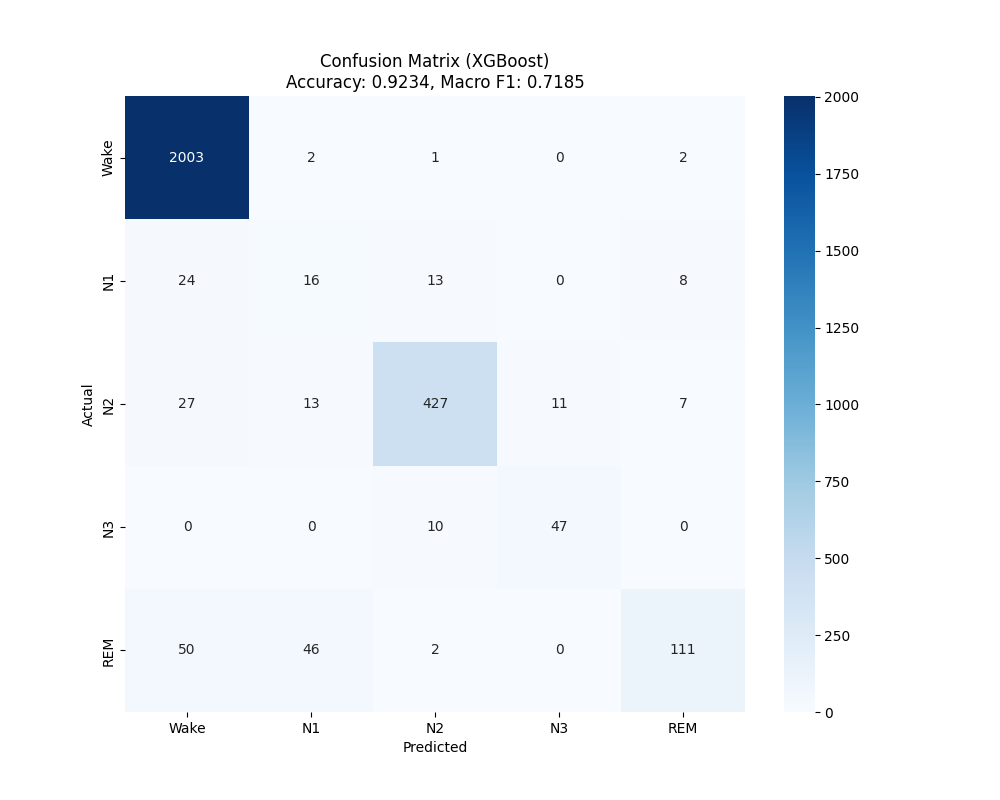
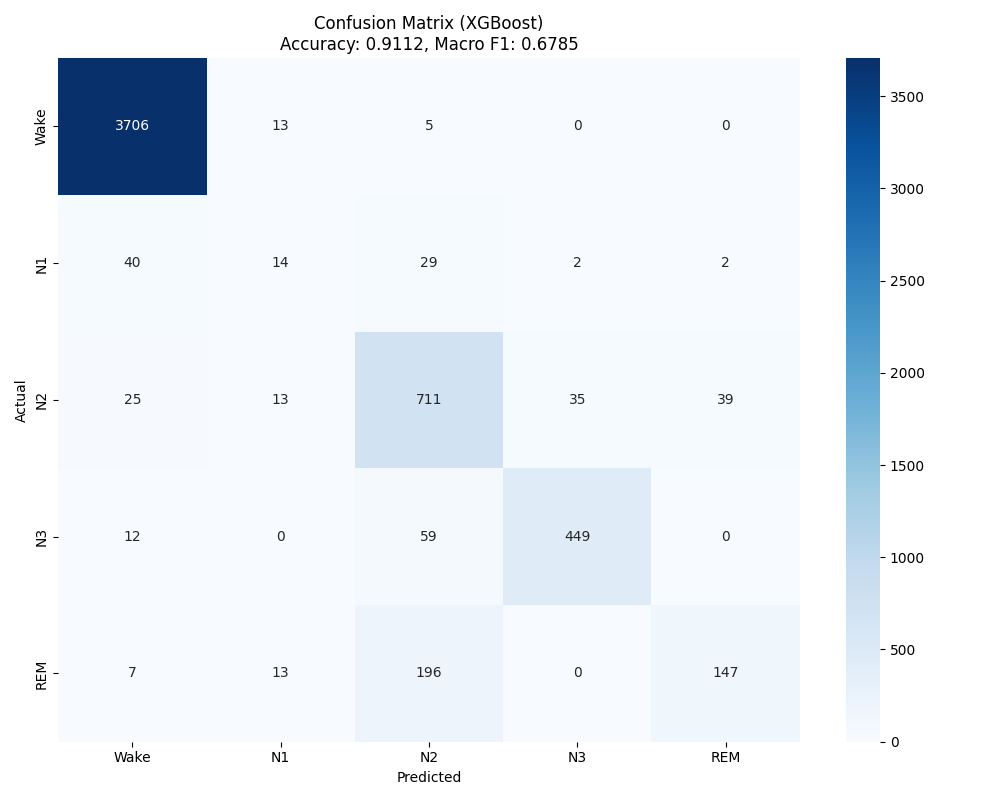
Update XGBoost to 8/2 subject split and refresh results

diff --git a/src/train_xgboost.py b/src/train_xgboost.py
@@ -19,7 +19,7 @@ def parse_args():
     parser.add_argument("--data-dir", default="data/sleep-edf")
     parser.add_argument("--output-dir", default="results/xgboost")
     parser.add_argument("--max-subjects", type=int, default=None)
-    parser.add_argument("--test-subjects", type=int, default=1)
+    parser.add_argument("--test-subjects", type=int, default=2)
     parser.add_argument("--seed", type=int, default=42)
     return parser.parse_args()
 
